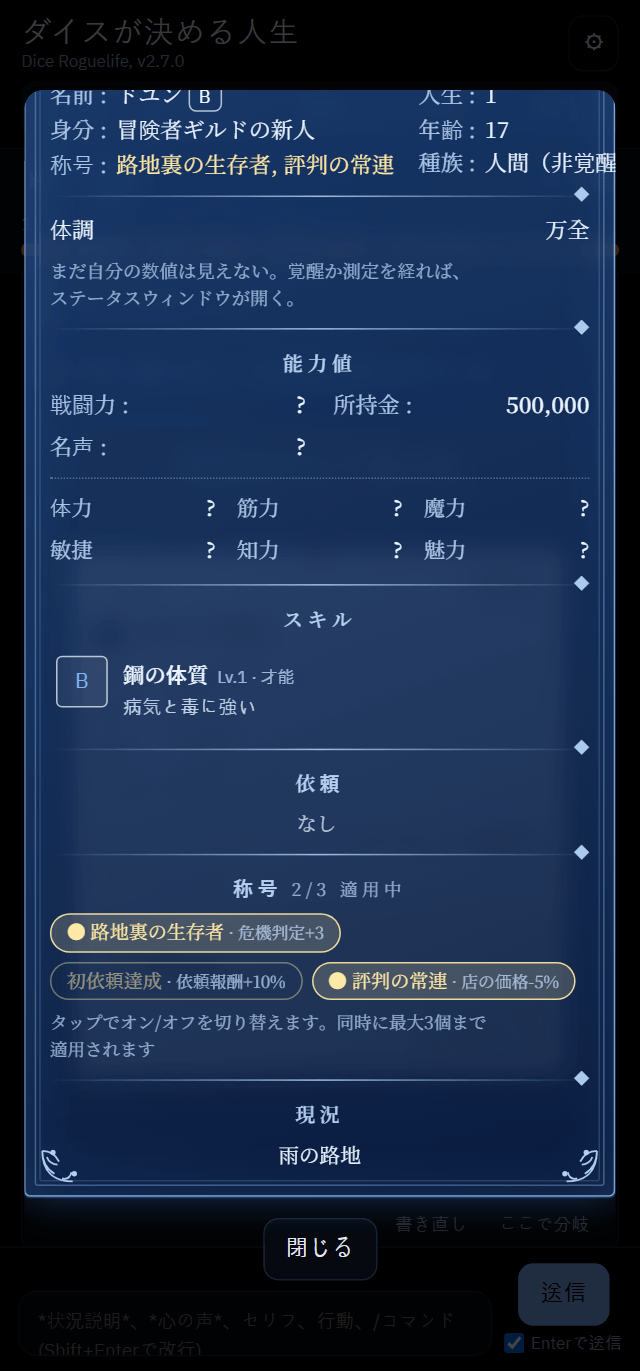
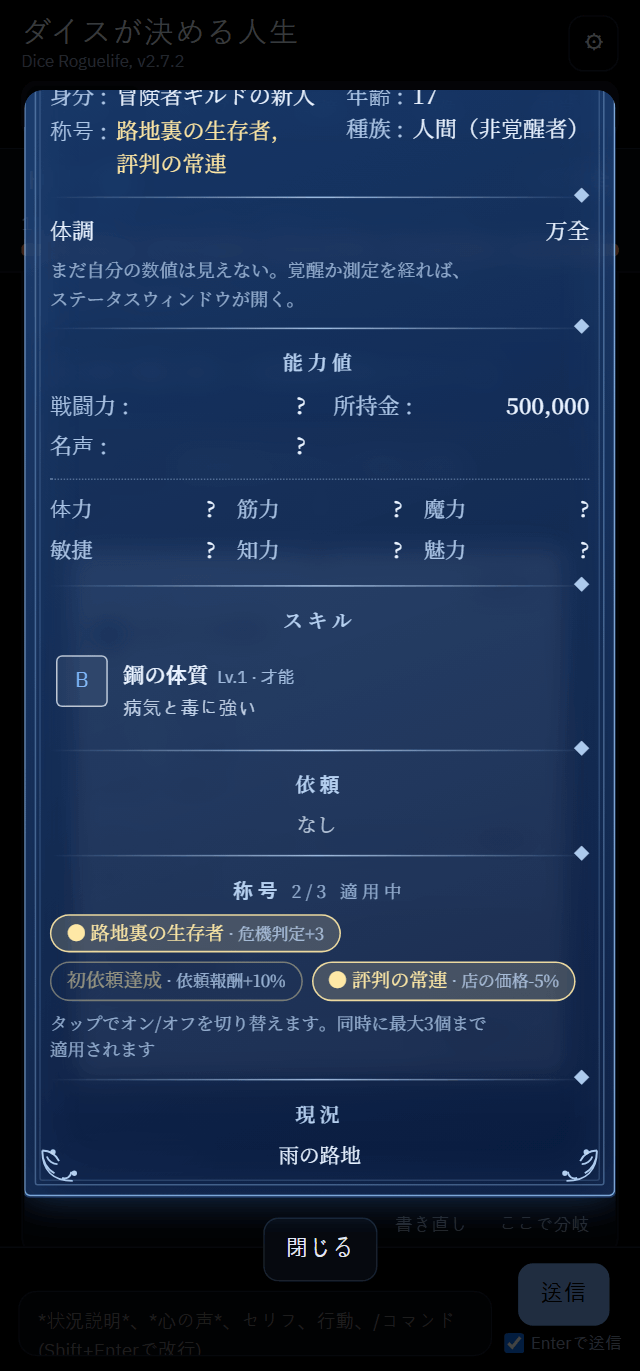
v2.7.2: /dc and /nico boards; long status window values wrap; PC-size images for posts
- /dc always shows DC Inside and /nico (/niconico) always Niconico, like /reddit and /5ch; /board (/gallery) follows the Board style setting.
- The status window's header lets a long value (race, standing, titles) wrap instead of running past the edge.
- tools/shots.js `pc`: the play screen and status window at 2x with real art (pc-play-en.jpg, pc-status-en.jpg) and the system boxes in each language (pc-system-*.png).

Claude-Session: https://claude.ai/code/session_01PS5w617o8bJ3spABzc7tAE

diff --git a/tools/shots.js b/tools/shots.js
@@ -1,6 +1,6 @@
 // Screenshots for the guide site, one language per run: docs/images/<name>-<lang>.png
 //   node tools/shots.js en              every shot
-//   node tools/shots.js ja play extra   some groups (new, play, misc, desk, images, styles, promo, hero, extra)
+//   node tools/shots.js ja play extra   some groups (new, play, misc, desk, images, styles, promo, hero, pc, extra)
 // The story in the shots is fake (tools/shots/<lang>.json) and the faces are drawn placeholders. The image-tab shots
 // can show real art instead: DR_SHOT_ART=<folder> with <id>.webp files named as in ART below.
 import { existsSync, readFileSync, writeFileSync } from 'node:fs';
@@ -15,7 +15,7 @@ const ROOT = fileURLToPath(new URL('..', import.meta.url));
 const LOCALES = { ko: 'ko-KR', en: 'en-US', ja: 'ja-JP' };
 const [lang, ...only] = process.argv.slice(2);
 if (!LOCALES[lang]) {
-  console.log('usage: node tools/shots.js <ko|en|ja> [new play misc desk images styles promo hero extra]');
+  console.log('usage: node tools/shots.js <ko|en|ja> [new play misc desk images styles promo hero pc extra]');
   process.exit(1);
 }
 const S = JSON.parse(readFileSync(join(ROOT, 'tools', 'shots', `${lang}.json`), 'utf8'));
@@ -620,6 +620,99 @@ const GROUPS = {
     await clean(pg);
     await pg.screenshot({ path: join(ROOT, 'docs', 'images', `promo-hero-${lang}.jpg`), type: 'jpeg', quality: 88 });
     console.log('  promo-hero');
+    await ctx.close();
+  },
+
+  // Full-width (760 px, the app's column) at 2x for posts: the system boxes in any language; in English also the hero
+  // scene's play screen and the status window over it, as JPEG for the real art.
+  async pc(browser) {
+    const ctx = await browser.newContext({
+      locale: LOCALES[lang],
+      viewport: { width: 760, height: 1300 },
+      deviceScaleFactor: 2,
+    });
+    const pg = await ctx.newPage();
+    await pg.addInitScript(MOCK);
+    await pg.goto(PAGE);
+    await pg.waitForSelector('#rollBtn');
+    await seed(pg);
+    await begin(pg);
+    await seedImages(pg, true);
+    await pg.evaluate(rows => DR.app.images.push(...rows), HERO_ROWS);
+    await say(pg, S.inputs.walk, 'boxes', 1500);
+    await snapEl(pg, '#log .turn .ai .body', 'pc-system');
+    if (!S.replies.hero1) return ctx.close();
+    await say(pg, S.inputs.hero, 'hero1', 1500);
+    await pg.evaluate(async () => {
+      const t = DR.app.turns.at(-1);
+      t.img = {
+        scene: 'bg_gate-portal_night',
+        char: 'hunter1_smirk',
+        chars: [{ id: 'hunter1_smirk', npc: t.out.speaker }],
+      };
+      await DR.turnStore.update(t);
+      DR.renderLog('keep');
+    });
+    await pg.evaluate(() => {
+      window.__scn = 'hero2';
+      DR.rnd = () => 0.22;
+    });
+    await pg.click('#log .choices [data-choice]');
+    await wait(pg, 2800);
+    await seed(pg);
+    const shotFrom = async (text, name) => {
+      const span = await pg.evaluate(text => {
+        const log = document.querySelector('#log');
+        const first = [...log.querySelectorAll('.turn.u')].find(t => t.textContent.includes(text));
+        const top = first.getBoundingClientRect().top - log.getBoundingClientRect().top + log.scrollTop;
+        return { top, content: log.scrollHeight - top, chrome: window.innerHeight - log.clientHeight };
+      }, text);
+      await pg.setViewportSize({ width: 760, height: Math.ceil(span.content + span.chrome + 12) });
+      await pg.evaluate(top => (document.querySelector('#log').scrollTop = top - 8), span.top);
+      await wait(pg, 600);
+      await clean(pg);
+      await pg.screenshot({ path: join(ROOT, 'docs', 'images', `${name}-${lang}.jpg`), type: 'jpeg', quality: 90 });
+      console.log('  ' + name);
+    };
+    await shotFrom(S.inputs.hero, 'pc-play');
+    // the status window a few turns on: awakened, titled, with skills and a new quest
+    await pg.evaluate(() => {
+      const s = DR.app.state;
+      s.statusUnlocked = true;
+      s.life.race = 'Human (Awakened)';
+      Object.assign(s.stats, {
+        hp: 96,
+        maxHp: 120,
+        power: 340,
+        fame: 45,
+        str: 6,
+        con: 7,
+        agi: 9,
+        int: 11,
+        cha: 5,
+        mag: 8,
+      });
+      s.energy = { name: 'Mana', cur: 42, max: 60 };
+      s.titles = ['Sewer Cartographer', 'Alley Survivor', 'Famous Regular'];
+      s.titleFx = {
+        'Sewer Cartographer': '+10% when selling information',
+        'Alley Survivor': '+3 to crisis checks',
+        'Famous Regular': '-5% shop prices',
+      };
+      s.titlesOn = ['Sewer Cartographer', 'Alley Survivor'];
+      s.skills.push(
+        { name: 'Pathfinder', grade: 'B', desc: 'Never loses the way underground', src: 'gained', lv: 3, at: s.next },
+        { name: 'Haggle', grade: 'C', desc: 'Gets a better price, once per deal', src: 'gained', lv: 2 },
+      );
+      s.quests.push({ title: 'Who else wants C-3?', status: 'active', note: 'Two men in suits asked about the map' });
+      s.stateNote = 'Sold a real gate map to the hunter Mira. Word is spreading on GateWatch.';
+    });
+    await pg.setViewportSize({ width: 760, height: 1500 });
+    await pg.click('#strip');
+    await wait(pg, 900);
+    await clean(pg);
+    await pg.screenshot({ path: join(ROOT, 'docs', 'images', `pc-status-${lang}.jpg`), type: 'jpeg', quality: 90 });
+    console.log('  pc-status');
     await ctx.close();
   },
 

diff --git a/tests/widget-styles.spec.js b/tests/widget-styles.spec.js
@@ -82,6 +82,25 @@ test('/reddit shows a Reddit board in any story language, and its posts open thr
   expect(errs).toEqual([]);
 });
 
+test('/dc and /nico force their looks too', async ({ game }) => {
+  const { pg, errs } = await game(claudeMock(reply), { locale: 'en-US' });
+  await pg.waitForSelector('#rollBtn');
+  await startLife(pg, { name: 'Jin' });
+  await pg.evaluate(x => (window.__W = x), BOARD);
+  for (const [cmd, cls] of [
+    ['/dc', 'w w-gal'],
+    ['/niconico', 'w w-gal g-nico'],
+    ['/board', 'w w-gal g-reddit'],
+  ]) {
+    const n = await pg.evaluate(() => DR.app.turns.filter(t => t.out?.widget).length);
+    await pg.evaluate(c => DR.send(c), cmd);
+    await pg.waitForFunction(n => DR.app.turns.filter(t => t.out?.widget).length === n + 1, n);
+    const got = await pg.evaluate(() => [...document.querySelectorAll('#log .w')].pop().className);
+    check(errs, `${cmd} in an English story: ${got}`, got === cls);
+  }
+  expect(errs).toEqual([]);
+});
+
 test('a picked style wins over the story language, and every style draws the posts and the thread', async ({
   game,
 }) => {

diff --git a/src/js/data.js b/src/js/data.js
@@ -345,9 +345,17 @@ export const BASE = {
 export const CMDS = [
   { id: 'news', names: ['/news'], t: 'news', d: N_("The world's newspaper") },
   { id: 'quest', names: ['/quest', '/q'], t: 'quest', d: N_('Quest board') },
-  { id: 'board', names: ['/board', '/gallery', '/dc'], t: 'gallery', d: N_('Community board') },
+  { id: 'board', names: ['/board', '/gallery'], t: 'gallery', d: N_('Community board') },
   { id: 'reddit', names: ['/reddit'], t: 'gallery', look: 'reddit', d: N_('Community board, always in Reddit style') },
   { id: '5ch', names: ['/5ch'], t: 'gallery', look: '5ch', d: N_('Community board, always in 5ch style') },
+  { id: 'dc', names: ['/dc'], t: 'gallery', look: 'dc', d: N_('Community board, always in DC Inside style') },
+  {
+    id: 'nico',
+    names: ['/nico', '/niconico'],
+    t: 'gallery',
+    look: 'nico',
+    d: N_('Community board, always in Niconico style (comments fly across the video)'),
+  },
   {
     id: 'star',
     names: ['/star'],

diff --git a/src/styles.css b/src/styles.css
@@ -2366,10 +2366,11 @@ html:is(.wdark, .discreet) .w-msg.c-line .rd {
 .sw-head .kv {
   display: flex;
   gap: 6px;
-  white-space: nowrap;
 }
+/* the label stays on one line; a long value (a race, a standing) wraps instead of running out of the window */
 .sw-head .kv > span:first-child {
   color: rgba(200, 225, 255, 0.85);
+  white-space: nowrap;
 }
 .sw-head .kv > span:first-child::after {
   content: ' :';
